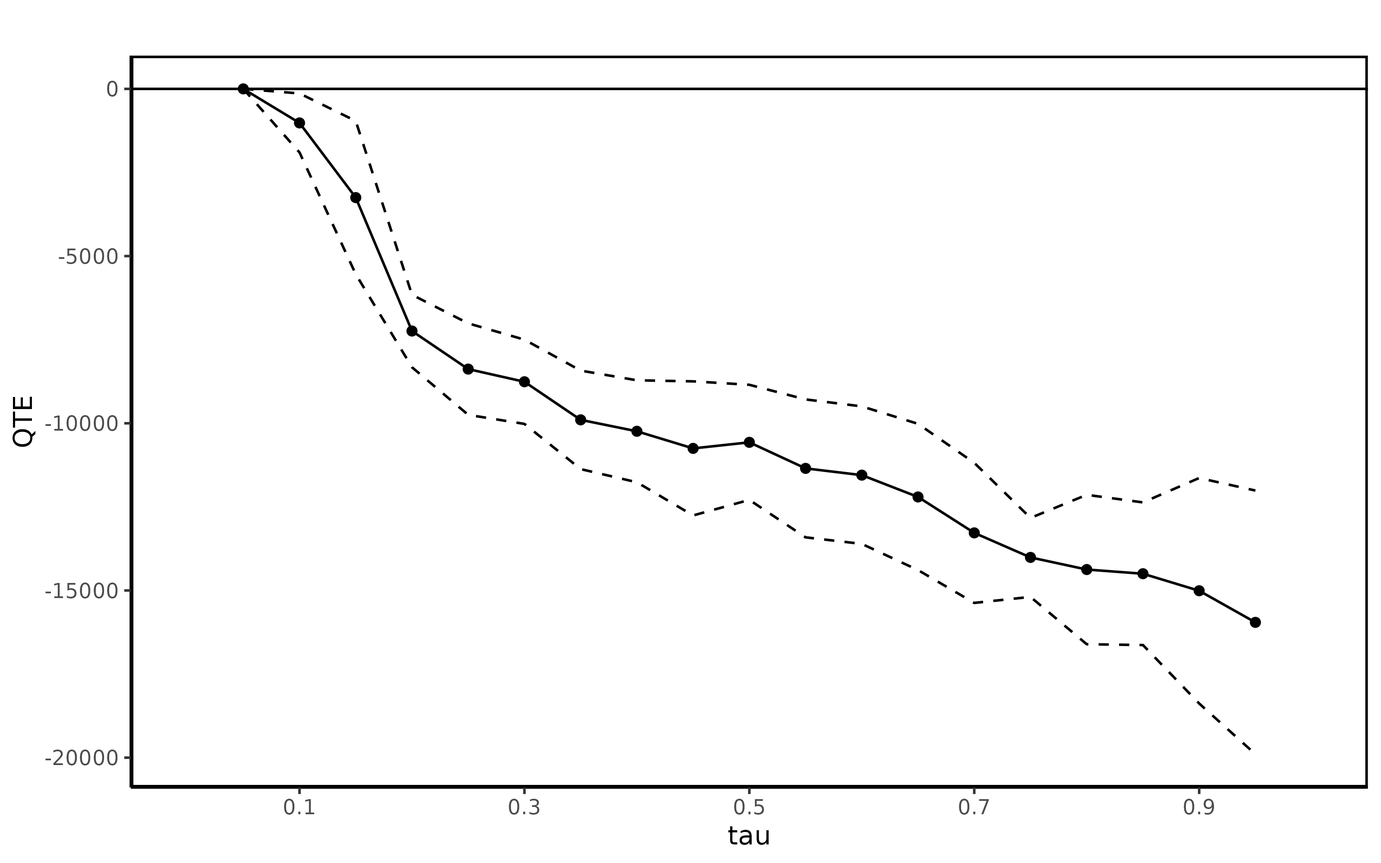
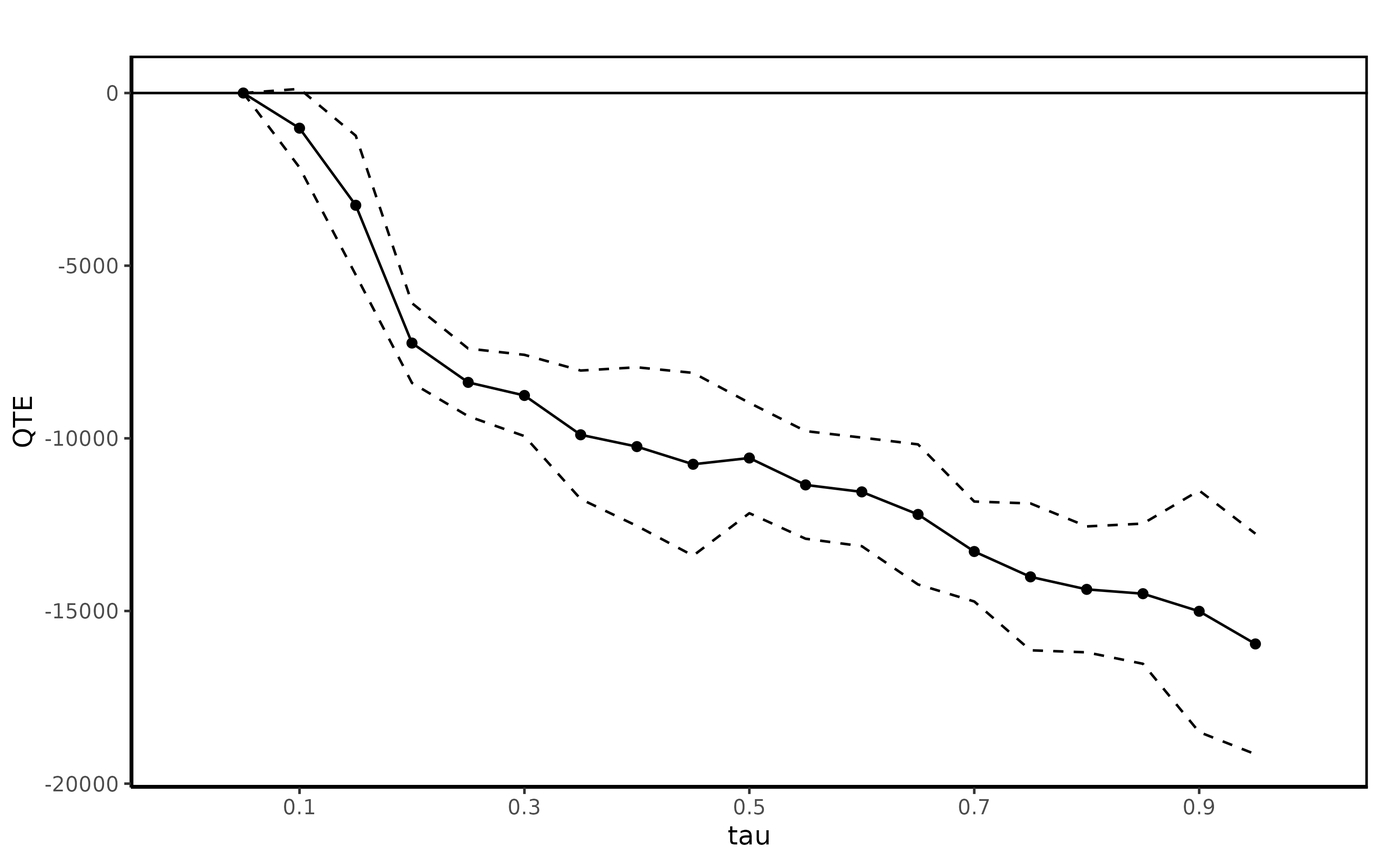
updated website

diff --git a/docs/articles/R-QTEs.html b/docs/articles/R-QTEs.html
@@ -65,7 +65,7 @@
       <h1 data-toc-skip>Quantile Treatment Effects in R: The qte Package</h1>
                         <h4 data-toc-skip class="author">Brantly Callaway</h4>
             
-            <h4 data-toc-skip class="date">2022-07-28</h4>
+            <h4 data-toc-skip class="date">2022-08-31</h4>
       
       
       <div class="hidden name"><code>R-QTEs.Rmd</code></div>
@@ -166,25 +166,25 @@ There are many examples of programs that fit into this category. The example tha
 <span><span class="co">## 0.05    0.00    0.00</span></span>
 <span><span class="co">## 0.1     0.00    0.00</span></span>
 <span><span class="co">## 0.15    0.00    0.00</span></span>
-<span><span class="co">## 0.2     0.00    0.00</span></span>
-<span><span class="co">## 0.25  338.65  286.63</span></span>
-<span><span class="co">## 0.3   846.40  333.70</span></span>
-<span><span class="co">## 0.35 1451.51  332.46</span></span>
-<span><span class="co">## 0.4  1177.72  633.06</span></span>
-<span><span class="co">## 0.45 1396.08  737.06</span></span>
-<span><span class="co">## 0.5  1123.55  837.80</span></span>
-<span><span class="co">## 0.55 1181.54  833.07</span></span>
-<span><span class="co">## 0.6  1466.51  904.54</span></span>
-<span><span class="co">## 0.65 2115.04 1008.85</span></span>
-<span><span class="co">## 0.7  1795.12  959.88</span></span>
-<span><span class="co">## 0.75 2347.49 1110.41</span></span>
-<span><span class="co">## 0.8  2278.12 1266.05</span></span>
-<span><span class="co">## 0.85 2178.28 1330.05</span></span>
-<span><span class="co">## 0.9  3239.60 2363.20</span></span>
-<span><span class="co">## 0.95 3979.62 3639.10</span></span>
+<span><span class="co">## 0.2     0.00  108.69</span></span>
+<span><span class="co">## 0.25  338.65  327.52</span></span>
+<span><span class="co">## 0.3   846.40  436.87</span></span>
+<span><span class="co">## 0.35 1451.51  462.32</span></span>
+<span><span class="co">## 0.4  1177.72  759.33</span></span>
+<span><span class="co">## 0.45 1396.08  819.01</span></span>
+<span><span class="co">## 0.5  1123.55  803.03</span></span>
+<span><span class="co">## 0.55 1181.54  561.01</span></span>
+<span><span class="co">## 0.6  1466.51  482.56</span></span>
+<span><span class="co">## 0.65 2115.04  827.16</span></span>
+<span><span class="co">## 0.7  1795.12  855.61</span></span>
+<span><span class="co">## 0.75 2347.49  699.03</span></span>
+<span><span class="co">## 0.8  2278.12  906.54</span></span>
+<span><span class="co">## 0.85 2178.28  852.29</span></span>
+<span><span class="co">## 0.9  3239.60 1588.87</span></span>
+<span><span class="co">## 0.95 3979.62 2272.04</span></span>
 <span><span class="co">## </span></span>
 <span><span class="co">## Average Treatment Effect:    1794.34</span></span>
-<span><span class="co">##   Std. Error:        817.39</span></span></code></pre>
+<span><span class="co">##   Std. Error:        514.43</span></span></code></pre>
 <p>The QTET can also be plotted with the <code>ggqte</code> command.</p>
 <div class="sourceCode" id="cb9"><pre class="downlit sourceCode r">
 <code class="sourceCode R"><span><span class="fu"><a href="../reference/ggqte.html">ggqte</a></span><span class="op">(</span><span class="va">jt.rand</span><span class="op">)</span></span></code></pre></div>
@@ -218,27 +218,27 @@ There are many examples of programs that fit into this category. The example tha
 <span><span class="co">##      </span></span>
 <span><span class="co">## tau  QTE Std. Error</span></span>
 <span><span class="co">## 0.05      0.00        0.00</span></span>
-<span><span class="co">## 0.1       0.00        0.00</span></span>
-<span><span class="co">## 0.15  -4433.18      901.16</span></span>
-<span><span class="co">## 0.2   -8219.15      764.17</span></span>
-<span><span class="co">## 0.25 -10435.74     1426.59</span></span>
-<span><span class="co">## 0.3  -12232.03     1611.30</span></span>
-<span><span class="co">## 0.35 -12428.30     1705.66</span></span>
-<span><span class="co">## 0.4  -14195.24     1915.00</span></span>
-<span><span class="co">## 0.45 -14248.66     1877.59</span></span>
-<span><span class="co">## 0.5  -15538.67     2292.80</span></span>
-<span><span class="co">## 0.55 -16550.71     2404.01</span></span>
-<span><span class="co">## 0.6  -15595.02     2557.71</span></span>
-<span><span class="co">## 0.65 -15827.52     3027.86</span></span>
-<span><span class="co">## 0.7  -16090.32     2748.63</span></span>
-<span><span class="co">## 0.75 -16091.49     2556.76</span></span>
-<span><span class="co">## 0.8  -17864.76     3674.77</span></span>
-<span><span class="co">## 0.85 -16756.71     3939.14</span></span>
-<span><span class="co">## 0.9  -17914.99     3033.33</span></span>
-<span><span class="co">## 0.95 -23646.22     2738.78</span></span>
+<span><span class="co">## 0.1       0.00      204.66</span></span>
+<span><span class="co">## 0.15  -4433.18     1141.55</span></span>
+<span><span class="co">## 0.2   -8219.15      585.50</span></span>
+<span><span class="co">## 0.25 -10435.74      851.05</span></span>
+<span><span class="co">## 0.3  -12232.03     1222.34</span></span>
+<span><span class="co">## 0.35 -12428.30     1794.56</span></span>
+<span><span class="co">## 0.4  -14195.24     1758.79</span></span>
+<span><span class="co">## 0.45 -14248.66     1939.69</span></span>
+<span><span class="co">## 0.5  -15538.67     1963.54</span></span>
+<span><span class="co">## 0.55 -16550.71     2309.33</span></span>
+<span><span class="co">## 0.6  -15595.02     2616.82</span></span>
+<span><span class="co">## 0.65 -15827.52     3251.63</span></span>
+<span><span class="co">## 0.7  -16090.32     3461.60</span></span>
+<span><span class="co">## 0.75 -16091.49     3277.06</span></span>
+<span><span class="co">## 0.8  -17864.76     4026.64</span></span>
+<span><span class="co">## 0.85 -16756.71     3758.47</span></span>
+<span><span class="co">## 0.9  -17914.99     3585.95</span></span>
+<span><span class="co">## 0.95 -23646.22     4313.97</span></span>
 <span><span class="co">## </span></span>
 <span><span class="co">## Average Treatment Effect:    -13435.40</span></span>
-<span><span class="co">##   Std. Error:        1503.49</span></span></code></pre>
+<span><span class="co">##   Std. Error:        1694.70</span></span></code></pre>
 <p>and the QTE can be plotted</p>
 <div class="sourceCode" id="cb12"><pre class="downlit sourceCode r">
 <code class="sourceCode R"><span> <span class="fu"><a href="../reference/ggqte.html">ggqte</a></span><span class="op">(</span><span class="va">jt.cia</span><span class="op">)</span></span></code></pre></div>
@@ -255,27 +255,27 @@ There are many examples of programs that fit into this category. The example tha
 <span><span class="co">##      </span></span>
 <span><span class="co">## tau  QTE Std. Error</span></span>
 <span><span class="co">## 0.05      0.00        0.00</span></span>
-<span><span class="co">## 0.1   -1018.15      450.00</span></span>
-<span><span class="co">## 0.15  -3251.00     1168.96</span></span>
-<span><span class="co">## 0.2   -7240.86      552.97</span></span>
-<span><span class="co">## 0.25  -8379.94      697.98</span></span>
-<span><span class="co">## 0.3   -8758.82      642.77</span></span>
-<span><span class="co">## 0.35  -9897.44      751.51</span></span>
-<span><span class="co">## 0.4  -10239.57      777.83</span></span>
-<span><span class="co">## 0.45 -10751.39     1023.09</span></span>
-<span><span class="co">## 0.5  -10570.14      878.06</span></span>
-<span><span class="co">## 0.55 -11348.96     1052.18</span></span>
-<span><span class="co">## 0.6  -11550.84     1049.06</span></span>
-<span><span class="co">## 0.65 -12203.56     1115.76</span></span>
-<span><span class="co">## 0.7  -13277.72     1068.62</span></span>
-<span><span class="co">## 0.75 -14011.74      602.51</span></span>
-<span><span class="co">## 0.8  -14373.95     1139.82</span></span>
-<span><span class="co">## 0.85 -14499.18     1088.20</span></span>
-<span><span class="co">## 0.9  -15008.63     1720.22</span></span>
-<span><span class="co">## 0.95 -15954.05     2011.32</span></span>
+<span><span class="co">## 0.1   -1018.15      580.63</span></span>
+<span><span class="co">## 0.15  -3251.00     1028.00</span></span>
+<span><span class="co">## 0.2   -7240.86      589.34</span></span>
+<span><span class="co">## 0.25  -8379.94      499.69</span></span>
+<span><span class="co">## 0.3   -8758.82      600.41</span></span>
+<span><span class="co">## 0.35  -9897.44      949.36</span></span>
+<span><span class="co">## 0.4  -10239.57     1171.68</span></span>
+<span><span class="co">## 0.45 -10751.39     1350.57</span></span>
+<span><span class="co">## 0.5  -10570.14      815.20</span></span>
+<span><span class="co">## 0.55 -11348.96      795.11</span></span>
+<span><span class="co">## 0.6  -11550.84      802.15</span></span>
+<span><span class="co">## 0.65 -12203.56     1034.86</span></span>
+<span><span class="co">## 0.7  -13277.72      738.40</span></span>
+<span><span class="co">## 0.75 -14011.74     1085.09</span></span>
+<span><span class="co">## 0.8  -14373.95      930.21</span></span>
+<span><span class="co">## 0.85 -14499.18     1035.58</span></span>
+<span><span class="co">## 0.9  -15008.63     1784.73</span></span>
+<span><span class="co">## 0.95 -15954.05     1629.08</span></span>
 <span><span class="co">## </span></span>
 <span><span class="co">## Average Treatment Effect:    4266.19</span></span>
-<span><span class="co">##   Std. Error:        560.53</span></span></code></pre>
+<span><span class="co">##   Std. Error:        268.87</span></span></code></pre>
 <p>Finally, the QTET is plotted</p>
 <div class="sourceCode" id="cb15"><pre class="downlit sourceCode r">
 <code class="sourceCode R"><span> <span class="fu"><a href="../reference/ggqte.html">ggqte</a></span><span class="op">(</span><span class="va">jt.ciat</span><span class="op">)</span></span></code></pre></div>
@@ -314,28 +314,28 @@ Note that these types of methods only identify the QTET (not the QTE). <span cla
 <span><span class="co">## Quantile Treatment Effect:</span></span>
 <span><span class="co">##      </span></span>
 <span><span class="co">## tau  QTE Std. Error</span></span>
-<span><span class="co">## 0.05  4779.21     1382.18</span></span>
-<span><span class="co">## 0.1   1987.35      498.22</span></span>
-<span><span class="co">## 0.15   842.95      637.64</span></span>
-<span><span class="co">## 0.2  -7366.04     3902.95</span></span>
-<span><span class="co">## 0.25 -8449.96     1068.41</span></span>
-<span><span class="co">## 0.3  -7992.15      690.32</span></span>
-<span><span class="co">## 0.35 -7429.21      703.20</span></span>
-<span><span class="co">## 0.4  -6597.37      801.06</span></span>
-<span><span class="co">## 0.45 -5519.45      993.23</span></span>
-<span><span class="co">## 0.5  -4702.88      907.32</span></span>
-<span><span class="co">## 0.55 -3904.52      872.12</span></span>
-<span><span class="co">## 0.6  -2741.80     1092.26</span></span>
-<span><span class="co">## 0.65 -1507.31      987.66</span></span>
-<span><span class="co">## 0.7   -771.12     1055.19</span></span>
-<span><span class="co">## 0.75   707.81      864.40</span></span>
-<span><span class="co">## 0.8    580.00      732.14</span></span>
-<span><span class="co">## 0.85   821.75     1324.59</span></span>
-<span><span class="co">## 0.9   -250.77     1920.47</span></span>
-<span><span class="co">## 0.95 -1874.54     2904.87</span></span>
+<span><span class="co">## 0.05  4779.21     1284.47</span></span>
+<span><span class="co">## 0.1   1987.35      684.18</span></span>
+<span><span class="co">## 0.15   842.95      364.78</span></span>
+<span><span class="co">## 0.2  -7366.04     4252.62</span></span>
+<span><span class="co">## 0.25 -8449.96      875.89</span></span>
+<span><span class="co">## 0.3  -7992.15      830.41</span></span>
+<span><span class="co">## 0.35 -7429.21      912.17</span></span>
+<span><span class="co">## 0.4  -6597.37     1124.14</span></span>
+<span><span class="co">## 0.45 -5519.45     1191.96</span></span>
+<span><span class="co">## 0.5  -4702.88     1054.43</span></span>
+<span><span class="co">## 0.55 -3904.52      914.54</span></span>
+<span><span class="co">## 0.6  -2741.80      978.01</span></span>
+<span><span class="co">## 0.65 -1507.31      923.95</span></span>
+<span><span class="co">## 0.7   -771.12      818.86</span></span>
+<span><span class="co">## 0.75   707.81      799.67</span></span>
+<span><span class="co">## 0.8    580.00      947.07</span></span>
+<span><span class="co">## 0.85   821.75      976.42</span></span>
+<span><span class="co">## 0.9   -250.77     1803.56</span></span>
+<span><span class="co">## 0.95 -1874.54     2763.03</span></span>
 <span><span class="co">## </span></span>
 <span><span class="co">## Average Treatment Effect:    2326.51</span></span>
-<span><span class="co">##   Std. Error:        751.04</span></span></code></pre>
+<span><span class="co">##   Std. Error:        647.16</span></span></code></pre>
 <div class="sourceCode" id="cb20"><pre class="downlit sourceCode r">
 <code class="sourceCode R"><span> <span class="fu"><a href="../reference/ggqte.html">ggqte</a></span><span class="op">(</span><span class="va">jt.pqtet</span><span class="op">)</span></span></code></pre></div>
 <p><img src="R-QTEs_files/figure-html/unnamed-chunk-13-1.png" width="90%" style="display: block; margin: auto;"></p>
@@ -398,28 +398,28 @@ Note that these types of methods only identify the QTET (not the QTE). <span cla
 <span><span class="co">## Quantile Treatment Effect:</span></span>
 <span><span class="co">##      </span></span>
 <span><span class="co">## tau  QTE Std. Error</span></span>
-<span><span class="co">## 0.05 10616.61      417.48</span></span>
-<span><span class="co">## 0.1   5019.83      290.58</span></span>
-<span><span class="co">## 0.15  2388.12      131.10</span></span>
-<span><span class="co">## 0.2   1033.23      111.76</span></span>
-<span><span class="co">## 0.25   485.23      334.72</span></span>
-<span><span class="co">## 0.3    943.05      378.82</span></span>
-<span><span class="co">## 0.35   931.45      561.37</span></span>
-<span><span class="co">## 0.4    945.35      977.61</span></span>
-<span><span class="co">## 0.45  1205.88      926.37</span></span>
-<span><span class="co">## 0.5   1362.11      917.07</span></span>
-<span><span class="co">## 0.55  1279.05      844.65</span></span>
-<span><span class="co">## 0.6   1618.13      972.97</span></span>
-<span><span class="co">## 0.65  1834.30     1000.70</span></span>
-<span><span class="co">## 0.7   1326.06     1035.94</span></span>
-<span><span class="co">## 0.75  1586.35     1037.88</span></span>
-<span><span class="co">## 0.8   1256.09      785.81</span></span>
-<span><span class="co">## 0.85   723.10     1283.17</span></span>
-<span><span class="co">## 0.9    251.36     2173.03</span></span>
-<span><span class="co">## 0.95 -1509.92     2116.25</span></span>
+<span><span class="co">## 0.05 10616.61      804.31</span></span>
+<span><span class="co">## 0.1   5019.83      319.45</span></span>
+<span><span class="co">## 0.15  2388.12      250.41</span></span>
+<span><span class="co">## 0.2   1033.23      271.88</span></span>
+<span><span class="co">## 0.25   485.23      386.72</span></span>
+<span><span class="co">## 0.3    943.05      223.39</span></span>
+<span><span class="co">## 0.35   931.45      359.25</span></span>
+<span><span class="co">## 0.4    945.35      559.53</span></span>
+<span><span class="co">## 0.45  1205.88      564.40</span></span>
+<span><span class="co">## 0.5   1362.11      631.46</span></span>
+<span><span class="co">## 0.55  1279.05      702.28</span></span>
+<span><span class="co">## 0.6   1618.13      897.23</span></span>
+<span><span class="co">## 0.65  1834.30      998.13</span></span>
+<span><span class="co">## 0.7   1326.06      918.52</span></span>
+<span><span class="co">## 0.75  1586.35      808.15</span></span>
+<span><span class="co">## 0.8   1256.09      941.58</span></span>
+<span><span class="co">## 0.85   723.10      613.96</span></span>
+<span><span class="co">## 0.9    251.36     1819.95</span></span>
+<span><span class="co">## 0.95 -1509.92     2622.79</span></span>
 <span><span class="co">## </span></span>
 <span><span class="co">## Average Treatment Effect:    2326.51</span></span>
-<span><span class="co">##   Std. Error:        755.97</span></span></code></pre>
+<span><span class="co">##   Std. Error:        640.46</span></span></code></pre>
 <div class="sourceCode" id="cb26"><pre class="downlit sourceCode r">
 <code class="sourceCode R"><span>  <span class="fu"><a href="../reference/ggqte.html">ggqte</a></span><span class="op">(</span><span class="va">jt.ddid2</span><span class="op">)</span></span></code></pre></div>
 <p><img src="R-QTEs_files/figure-html/unnamed-chunk-15-1.png" width="90%" style="display: block; margin: auto;"></p>
@@ -434,27 +434,27 @@ Note that these types of methods only identify the QTET (not the QTE). <span cla
 <span><span class="co">##      </span></span>
 <span><span class="co">## tau  QTE Std. Error</span></span>
 <span><span class="co">## 0.05     0.00        0.00</span></span>
-<span><span class="co">## 0.1     64.45      436.96</span></span>
-<span><span class="co">## 0.15   536.67      667.72</span></span>
-<span><span class="co">## 0.2   -988.94      582.33</span></span>
-<span><span class="co">## 0.25 -1194.26      893.20</span></span>
-<span><span class="co">## 0.3   -287.93      865.07</span></span>
-<span><span class="co">## 0.35    28.62      834.90</span></span>
-<span><span class="co">## 0.4   -177.15     1148.12</span></span>
-<span><span class="co">## 0.45   578.25     1104.96</span></span>
-<span><span class="co">## 0.5   1447.37      764.44</span></span>
-<span><span class="co">## 0.55  2305.26      992.44</span></span>
-<span><span class="co">## 0.6   3389.17     1624.77</span></span>
-<span><span class="co">## 0.65  3338.47     1636.90</span></span>
-<span><span class="co">## 0.7   4208.92     1587.68</span></span>
-<span><span class="co">## 0.75  4767.96     1459.19</span></span>
-<span><span class="co">## 0.8   4649.06     1187.38</span></span>
-<span><span class="co">## 0.85  5075.03     1529.09</span></span>
-<span><span class="co">## 0.9   4900.29     2240.42</span></span>
-<span><span class="co">## 0.95  8915.09     3410.95</span></span>
+<span><span class="co">## 0.1     64.45      217.75</span></span>
+<span><span class="co">## 0.15   536.67      819.01</span></span>
+<span><span class="co">## 0.2   -988.94      369.64</span></span>
+<span><span class="co">## 0.25 -1194.26      627.10</span></span>
+<span><span class="co">## 0.3   -287.93      673.31</span></span>
+<span><span class="co">## 0.35    28.62      987.11</span></span>
+<span><span class="co">## 0.4   -177.15     1043.77</span></span>
+<span><span class="co">## 0.45   578.25     1103.31</span></span>
+<span><span class="co">## 0.5   1447.37      884.77</span></span>
+<span><span class="co">## 0.55  2305.26      791.33</span></span>
+<span><span class="co">## 0.6   3389.17      977.00</span></span>
+<span><span class="co">## 0.65  3338.47      711.68</span></span>
+<span><span class="co">## 0.7   4208.92      752.79</span></span>
+<span><span class="co">## 0.75  4767.96      838.41</span></span>
+<span><span class="co">## 0.8   4649.06      695.79</span></span>
+<span><span class="co">## 0.85  5075.03      842.24</span></span>
+<span><span class="co">## 0.9   4900.29     1537.95</span></span>
+<span><span class="co">## 0.95  8915.09     2289.49</span></span>
 <span><span class="co">## </span></span>
 <span><span class="co">## Average Treatment Effect:    1684.96</span></span>
-<span><span class="co">##   Std. Error:        948.96</span></span></code></pre>
+<span><span class="co">##   Std. Error:        565.65</span></span></code></pre>
 <div class="sourceCode" id="cb29"><pre class="downlit sourceCode r">
 <code class="sourceCode R"><span>  <span class="fu"><a href="../reference/ggqte.html">ggqte</a></span><span class="op">(</span><span class="va">jt.qdid</span><span class="op">)</span></span></code></pre></div>
 <p><img src="R-QTEs_files/figure-html/unnamed-chunk-16-1.png" width="90%" style="display: block; margin: auto;"></p>
@@ -471,25 +471,25 @@ Note that these types of methods only identify the QTET (not the QTE). <span cla
 <span><span class="co">## 0.05     0.00        0.00</span></span>
 <span><span class="co">## 0.1      0.00        0.00</span></span>
 <span><span class="co">## 0.15     0.00        0.00</span></span>
-<span><span class="co">## 0.2      0.00      153.44</span></span>
-<span><span class="co">## 0.25   485.23      353.47</span></span>
-<span><span class="co">## 0.3    929.88      304.79</span></span>
-<span><span class="co">## 0.35  1460.36      460.77</span></span>
-<span><span class="co">## 0.4   2321.11      661.30</span></span>
-<span><span class="co">## 0.45  3462.56      704.67</span></span>
-<span><span class="co">## 0.5   4232.31      564.13</span></span>
-<span><span class="co">## 0.55  5010.34      532.56</span></span>
-<span><span class="co">## 0.6   6210.67      672.48</span></span>
-<span><span class="co">## 0.65  7458.11      572.29</span></span>
-<span><span class="co">## 0.7   8173.91      781.94</span></span>
-<span><span class="co">## 0.75  9643.00     1475.22</span></span>
-<span><span class="co">## 0.8   9860.76     1462.76</span></span>
-<span><span class="co">## 0.85 10824.63     2216.62</span></span>
-<span><span class="co">## 0.9   8670.99     2856.43</span></span>
-<span><span class="co">## 0.95 11394.77     1720.24</span></span>
+<span><span class="co">## 0.2      0.00        0.00</span></span>
+<span><span class="co">## 0.25   485.23      268.62</span></span>
+<span><span class="co">## 0.3    929.88      182.93</span></span>
+<span><span class="co">## 0.35  1460.36      367.09</span></span>
+<span><span class="co">## 0.4   2321.11      466.70</span></span>
+<span><span class="co">## 0.45  3462.56      589.56</span></span>
+<span><span class="co">## 0.5   4232.31      538.03</span></span>
+<span><span class="co">## 0.55  5010.34      467.53</span></span>
+<span><span class="co">## 0.6   6210.67      470.49</span></span>
+<span><span class="co">## 0.65  7458.11      437.90</span></span>
+<span><span class="co">## 0.7   8173.91      599.76</span></span>
+<span><span class="co">## 0.75  9643.00      746.28</span></span>
+<span><span class="co">## 0.8   9860.76      511.80</span></span>
+<span><span class="co">## 0.85 10824.63     1272.43</span></span>
+<span><span class="co">## 0.9   8670.99     1055.45</span></span>
+<span><span class="co">## 0.95 11394.77     2350.16</span></span>
 <span><span class="co">## </span></span>
 <span><span class="co">## Average Treatment Effect:    5089.64</span></span>
-<span><span class="co">##   Std. Error:        642.40</span></span></code></pre>
+<span><span class="co">##   Std. Error:        448.06</span></span></code></pre>
 <div class="sourceCode" id="cb32"><pre class="downlit sourceCode r">
 <code class="sourceCode R"><span>  <span class="fu"><a href="../reference/ggqte.html">ggqte</a></span><span class="op">(</span><span class="va">jt.cic</span><span class="op">)</span></span></code></pre></div>
 <p><img src="R-QTEs_files/figure-html/unnamed-chunk-17-1.png" width="90%" style="display: block; margin: auto;"></p>

diff --git a/docs/index.html b/docs/index.html
@@ -12,7 +12,7 @@
 <link rel="stylesheet" href="https://cdnjs.cloudflare.com/ajax/libs/font-awesome/5.12.1/css/v4-shims.min.css" integrity="sha256-wZjR52fzng1pJHwx4aV2AO3yyTOXrcDW7jBpJtTwVxw=" crossorigin="anonymous">
 <!-- clipboard.js --><script src="https://cdnjs.cloudflare.com/ajax/libs/clipboard.js/2.0.6/clipboard.min.js" integrity="sha256-inc5kl9MA1hkeYUt+EC3BhlIgyp/2jDIyBLS6k3UxPI=" crossorigin="anonymous"></script><!-- headroom.js --><script src="https://cdnjs.cloudflare.com/ajax/libs/headroom/0.11.0/headroom.min.js" integrity="sha256-AsUX4SJE1+yuDu5+mAVzJbuYNPHj/WroHuZ8Ir/CkE0=" crossorigin="anonymous"></script><script src="https://cdnjs.cloudflare.com/ajax/libs/headroom/0.11.0/jQuery.headroom.min.js" integrity="sha256-ZX/yNShbjqsohH1k95liqY9Gd8uOiE1S4vZc+9KQ1K4=" crossorigin="anonymous"></script><!-- pkgdown --><link href="pkgdown.css" rel="stylesheet">
 <script src="pkgdown.js"></script><meta property="og:title" content="Quantile Treatment Effects">
-<meta property="og:description" content="Provides several methods for computing the Quantile Treatment Effect (QTE) and Quantile Treatment Effect on the Treated (QTT). The main cases covered are (i) Treatment is randomly assigned, (ii) Treatment is as good as randomly assigned after conditioning on some covariates (also called conditional independence or selection on observables) using the methods developed in Firpo (2007) &lt;doi:10.1111/j.1468-0262.2007.00738.x&gt;, (iii) Identification is based on a Difference in Differences assumption (several varieties are available in the package e.g. Athey and Imbens (2006) &lt;doi:10.1111/j.1468-0262.2006.00668.x&gt; Callaway and Li (2019) &lt;https://ssrn.com/abstract=3013341&gt;, Callaway, Li, and Oka (2018) &lt;doi:10.1016/j.jeconom.2018.06.008&gt;).">
+<meta property="og:description" content="Provides several methods for computing the Quantile Treatment Effect (QTE) and Quantile Treatment Effect on the Treated (QTT). The main cases covered are (i) Treatment is randomly assigned, (ii) Treatment is as good as randomly assigned after conditioning on some covariates (also called conditional independence or selection on observables) using the methods developed in Firpo (2007) &lt;doi:10.1111/j.1468-0262.2007.00738.x&gt;, (iii) Identification is based on a Difference in Differences assumption (several varieties are available in the package e.g. Athey and Imbens (2006) &lt;doi:10.1111/j.1468-0262.2006.00668.x&gt; Callaway and Li (2019) &lt;doi:10.3982/QE935&gt;, Callaway, Li, and Oka (2018) &lt;doi:10.1016/j.jeconom.2018.06.008&gt;).">
 <!-- mathjax --><script src="https://cdnjs.cloudflare.com/ajax/libs/mathjax/2.7.5/MathJax.js" integrity="sha256-nvJJv9wWKEm88qvoQl9ekL2J+k/RWIsaSScxxlsrv8k=" crossorigin="anonymous"></script><script src="https://cdnjs.cloudflare.com/ajax/libs/mathjax/2.7.5/config/TeX-AMS-MML_HTMLorMML.js" integrity="sha256-84DKXVJXs0/F8OTMzX4UR909+jtl4G7SPypPavF+GfA=" crossorigin="anonymous"></script><!--[if lt IE 9]>
 <script src="https://oss.maxcdn.com/html5shiv/3.7.3/html5shiv.min.js"></script>
 <script src="https://oss.maxcdn.com/respond/1.4.2/respond.min.js"></script>

diff --git a/docs/articles/panel-qtet.html b/docs/articles/panel-qtet.html
@@ -65,7 +65,7 @@
       <h1 data-toc-skip>panel.qtet</h1>
                         <h4 data-toc-skip class="author">Brantly Callaway</h4>
             
-            <h4 data-toc-skip class="date">2022-07-28</h4>
+            <h4 data-toc-skip class="date">2022-08-31</h4>
       
       
       <div class="hidden name"><code>panel-qtet.Rmd</code></div>

diff --git a/docs/articles/ddid2.html b/docs/articles/ddid2.html
@@ -65,7 +65,7 @@
       <h1 data-toc-skip>ddid2</h1>
                         <h4 data-toc-skip class="author">Brantly Callaway</h4>
             
-            <h4 data-toc-skip class="date">2022-07-28</h4>
+            <h4 data-toc-skip class="date">2022-08-31</h4>
       
       
       <div class="hidden name"><code>ddid2.Rmd</code></div>
